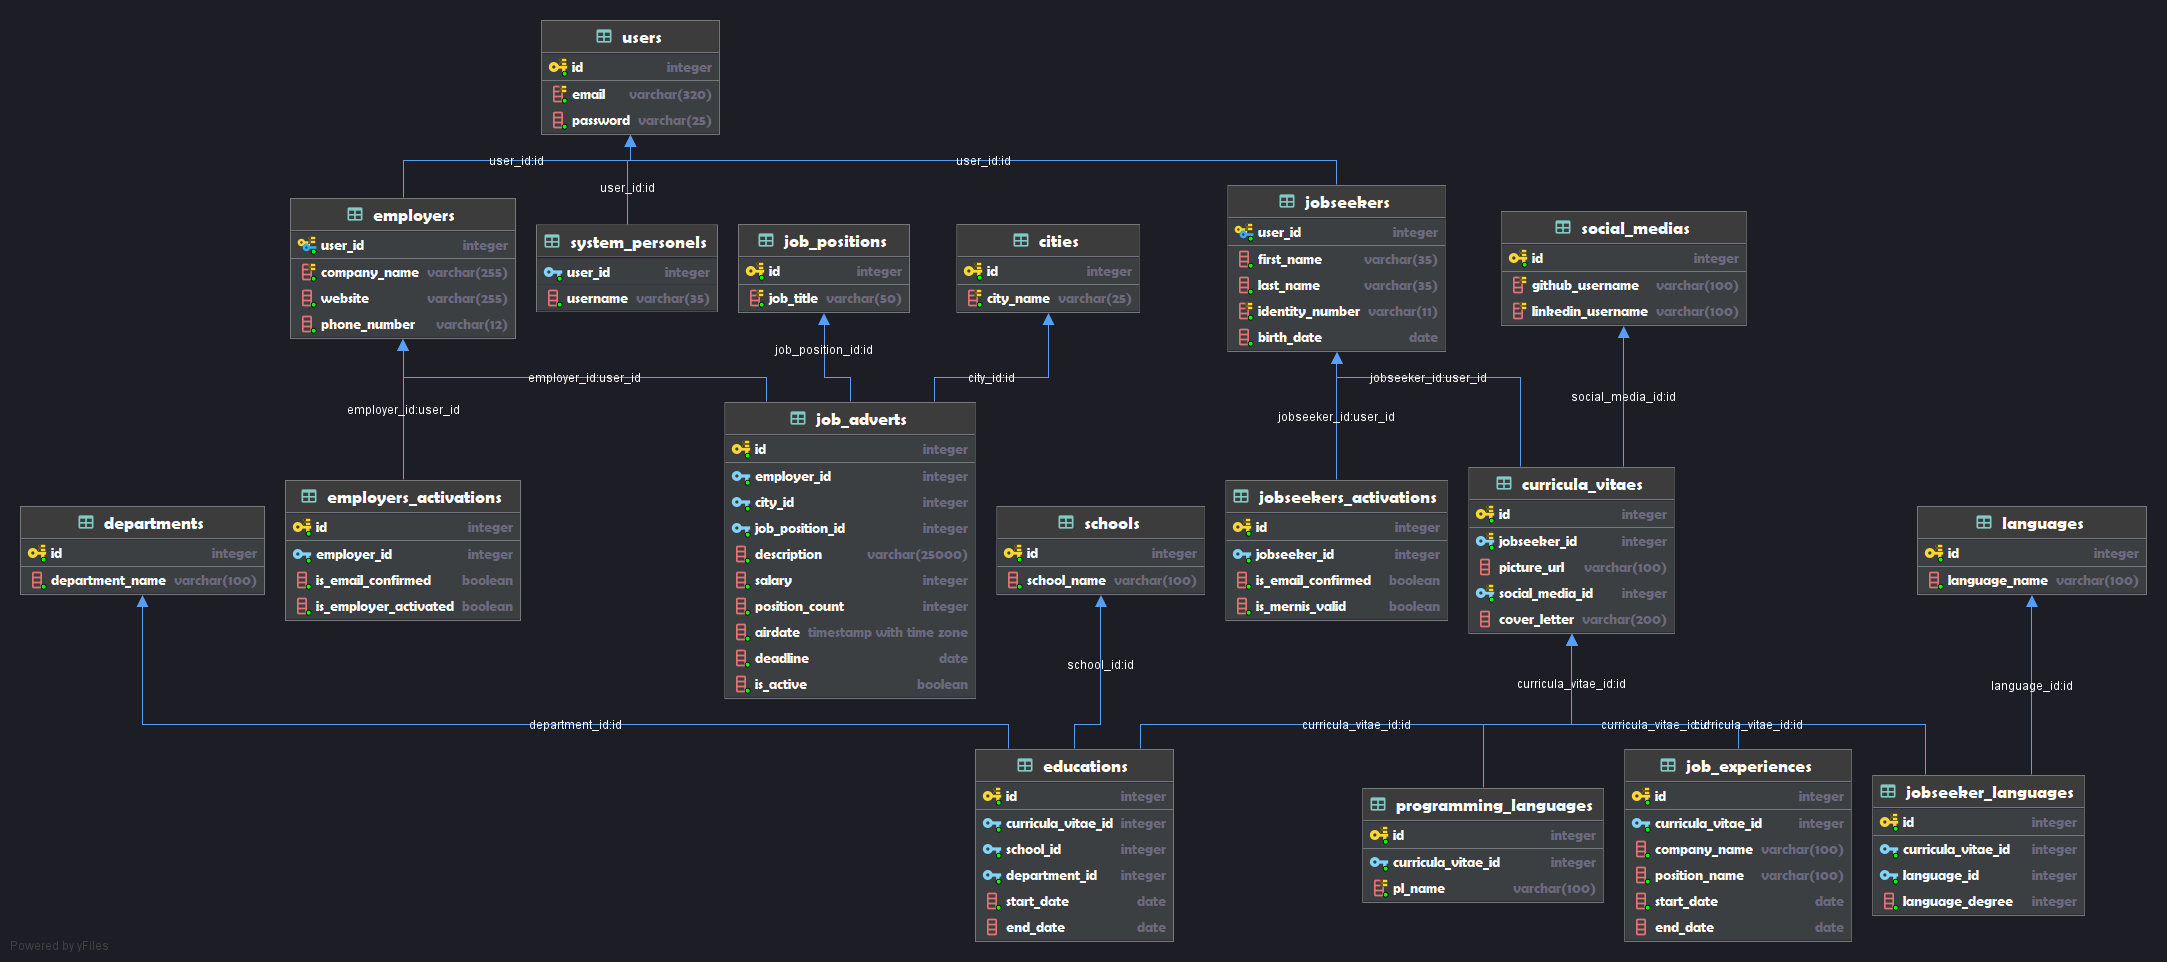
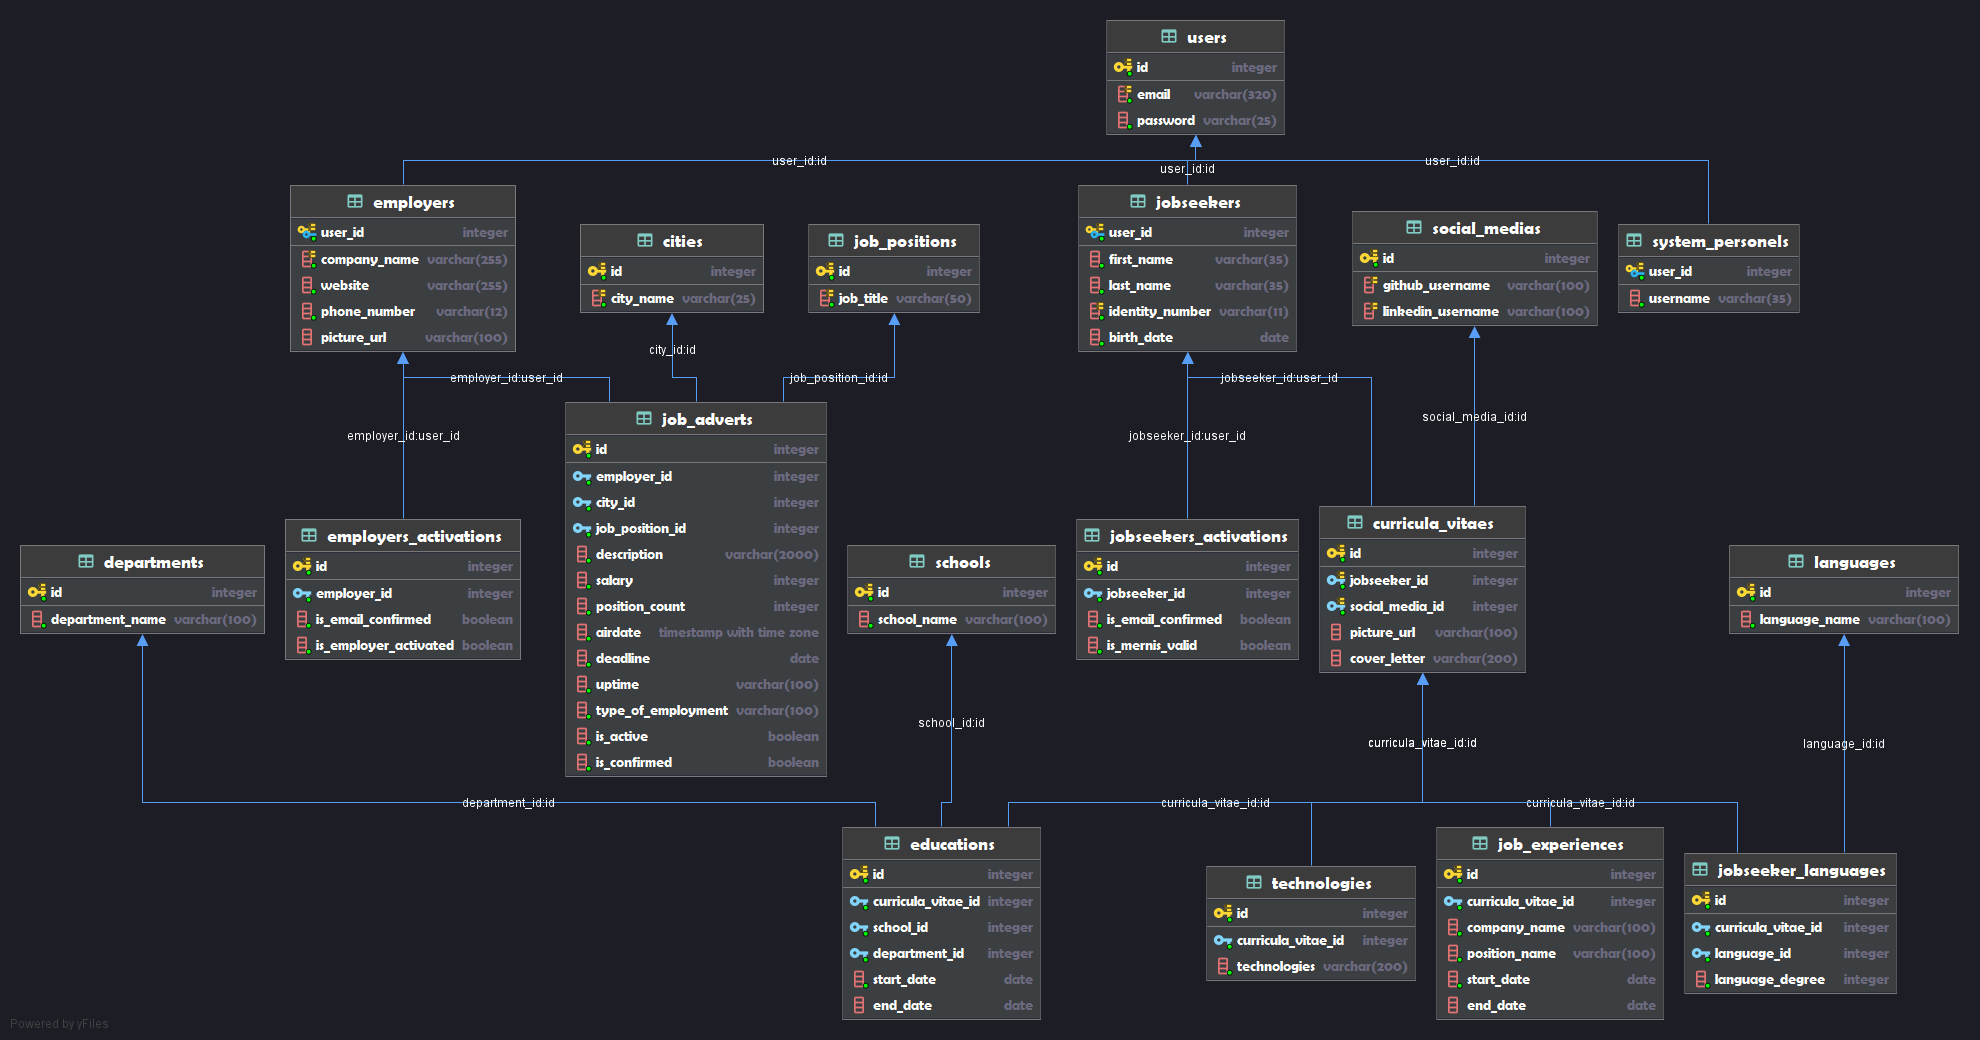
new requirments added for day 12!

diff --git a/hrms/src/main/java/torukobyte/hrms/business/concretes/JobAdvertManager.java b/hrms/src/main/java/torukobyte/hrms/business/concretes/JobAdvertManager.java
@@ -66,6 +66,20 @@ public class JobAdvertManager implements JobAdvertService {
     }
 
     @Override
+    public DataResult<List<JobAdvert>> getJobAdvertByIsActiveTrueAndIsConfirmedTrue() {
+        Sort sort = Sort.by(Sort.Direction.DESC, "airdate");
+        if (this.jobAdvertsDao.getJobAdvertByIsActiveTrueAndIsConfirmedTrue(sort).size() > 0) {
+            return new SuccessDataResult<>(
+                    this.jobAdvertsDao.getJobAdvertByIsActiveTrueAndIsConfirmedTrue(sort),
+                    "Success: Onaylı ve Aktif tüm iş ilanları yayınlanma tarihine göre listelendi!");
+
+        }
+        return new WarningDataResult<>(
+                this.jobAdvertsDao.getJobAdvertByIsActiveTrueAndIsConfirmedTrue(sort),
+                "Warning: Onaylı ve Aktif iş ilanı bulunamadı!");
+    }
+
+    @Override
     public DataResult<JobAdvert> getJobAdvertById(int jobAdvertId) {
         if (this.jobAdvertsDao.getJobAdvertById(jobAdvertId) == null) {
             return new WarningDataResult<>("Warning: Kayıtlı İş İlanı bulunamadı!");
@@ -77,9 +91,15 @@ public class JobAdvertManager implements JobAdvertService {
     }
 
     @Override
-    public Result deactiveJobAdvert(int jobAdvertId) {
-        this.jobAdvertsDao.deactiveJobAdvert(jobAdvertId);
-        return new SuccessResult("Success: İlan başarıyla inaktif edildi!");
+    public Result changeIsActive(boolean active, int jobAdvertId) {
+        this.jobAdvertsDao.changeIsActive(active, jobAdvertId);
+        return new SuccessResult("Success: İlan aktiflik durumu değiştirildi!");
+    }
+
+    @Override
+    public Result changeIsConfirmed(boolean confirm, int jobAdvertId) {
+        this.jobAdvertsDao.changeIsConfirmed(confirm, jobAdvertId);
+        return new SuccessResult("Success: İlan onay durumu değiştirildi!");
     }
 
     @Override

diff --git a/hrms/src/main/java/torukobyte/hrms/business/concretes/EmployerManager.java b/hrms/src/main/java/torukobyte/hrms/business/concretes/EmployerManager.java
@@ -2,21 +2,27 @@ package torukobyte.hrms.business.concretes;
 
 import org.springframework.beans.factory.annotation.Autowired;
 import org.springframework.stereotype.Service;
+import org.springframework.web.multipart.MultipartFile;
 import torukobyte.hrms.business.abstracts.EmployerService;
+import torukobyte.hrms.core.helpers.CloudinaryService;
 import torukobyte.hrms.core.utilities.EmailValidator;
 import torukobyte.hrms.core.utilities.results.*;
 import torukobyte.hrms.dataAccess.abstracts.EmployerDao;
 import torukobyte.hrms.entities.concretes.Employer;
 
+import java.io.IOException;
 import java.util.List;
 
 @Service
 public class EmployerManager implements EmployerService {
     private final EmployerDao employerDao;
 
+    private final CloudinaryService cloudinaryService;
+
     @Autowired
-    public EmployerManager(EmployerDao employerDao) {
+    public EmployerManager(EmployerDao employerDao, CloudinaryService cloudinaryService) {
         this.employerDao = employerDao;
+        this.cloudinaryService = cloudinaryService;
     }
 
     @Override
@@ -72,5 +78,17 @@ public class EmployerManager implements EmployerService {
                     this.employerDao.getEmployerById(employerId),
                     "Success: Şirket başarıyla listelendi!");
         }
+    }
+
+    @Override
+    public Result uploadPicture(int employerId, MultipartFile file) throws IOException {
+        var result = this.cloudinaryService.addPicture(file);
+        var url = result.getData().get("url");
+
+        Employer ref = this.employerDao.getOne(employerId);
+        ref.setPictureUrl(url.toString());
+        this.employerDao.save(ref);
+
+        return new SuccessResult("Success: Resim ekleme işlemi başarılı!");
     }
 }

diff --git a/hrms/src/main/java/torukobyte/hrms/api/controllers/SystemPersonelsController.java b/hrms/src/main/java/torukobyte/hrms/api/controllers/SystemPersonelsController.java
@@ -2,6 +2,7 @@ package torukobyte.hrms.api.controllers;
 
 import org.springframework.beans.factory.annotation.Autowired;
 import org.springframework.web.bind.annotation.*;
+import torukobyte.hrms.business.abstracts.JobAdvertService;
 import torukobyte.hrms.business.abstracts.SystemPersonelService;
 import torukobyte.hrms.core.utilities.results.DataResult;
 import torukobyte.hrms.core.utilities.results.Result;
@@ -16,9 +17,12 @@ public class SystemPersonelsController {
 
     private final SystemPersonelService systemPersonelService;
 
+    private final JobAdvertService jobAdvertService;
+
     @Autowired
-    public SystemPersonelsController(SystemPersonelService systemPersonelService) {
+    public SystemPersonelsController(SystemPersonelService systemPersonelService, JobAdvertService jobAdvertService) {
         this.systemPersonelService = systemPersonelService;
+        this.jobAdvertService = jobAdvertService;
     }
 
     @GetMapping("/getSystemPersonels")
@@ -39,6 +43,11 @@ public class SystemPersonelsController {
     @PostMapping("/addSystemPersonel")
     public Result addSystemPersonel(@RequestBody SystemPersonel systemPersonel) {
         return this.systemPersonelService.addSystemPersonel(systemPersonel);
+    }
+
+    @PostMapping("/changeIsConfirmed")
+    public Result changeIsConfirmed(@RequestParam boolean confirm, int jobAdvertId) {
+        return this.jobAdvertService.changeIsConfirmed(confirm, jobAdvertId);
     }
 
 

diff --git a/hrms/src/main/java/torukobyte/hrms/api/controllers/EmployerController.java b/hrms/src/main/java/torukobyte/hrms/api/controllers/EmployerController.java
@@ -2,12 +2,14 @@ package torukobyte.hrms.api.controllers;
 
 import org.springframework.beans.factory.annotation.Autowired;
 import org.springframework.web.bind.annotation.*;
+import org.springframework.web.multipart.MultipartFile;
 import torukobyte.hrms.business.abstracts.EmployerService;
 import torukobyte.hrms.business.abstracts.JobAdvertService;
 import torukobyte.hrms.core.utilities.results.DataResult;
 import torukobyte.hrms.core.utilities.results.Result;
 import torukobyte.hrms.entities.concretes.Employer;
 
+import java.io.IOException;
 import java.util.List;
 
 @RestController
@@ -45,8 +47,13 @@ public class EmployerController {
         return this.employerService.addEmployer(employer);
     }
 
-    @PostMapping("/updateIsActive")
-    public Result deactiveJobAdvert(@RequestParam("job_adverts_id") int jobAdvertId) {
-        return this.jobAdvertService.deactiveJobAdvert(jobAdvertId);
+    @PostMapping("/changeIsActive")
+    public Result changeIsActive(@RequestParam boolean active, int jobAdvertId) {
+        return this.jobAdvertService.changeIsActive(active, jobAdvertId);
+    }
+
+    @PostMapping("/addPicture")
+    public Result addPicture(int employerId, MultipartFile file) throws IOException {
+        return this.employerService.uploadPicture(employerId, file);
     }
 }

diff --git a/hrms/src/main/java/torukobyte/hrms/entities/concretes/JobAdvert.java b/hrms/src/main/java/torukobyte/hrms/entities/concretes/JobAdvert.java
@@ -47,10 +47,23 @@ public class JobAdvert {
     //düzenlenebilir gibi görünsede auto değer atıyor.
     private LocalDateTime airdate = LocalDateTime.now();
 
+    @Column(name = "uptime")
+    @NotNull
+    private String upTime;
+
+    @Column(name = "type_of_employment")
+    @NotNull
+    private String typeOfEmployment;
+
     @Column(name = "is_active")
     @NotNull
-    @JsonProperty(access = JsonProperty.Access.WRITE_ONLY)
+//    @JsonProperty(access = JsonProperty.Access.WRITE_ONLY)
     private boolean isActive = true;
+
+    @Column(name = "is_confirmed")
+    @NotNull
+//    @JsonProperty(access = JsonProperty.Access.WRITE_ONLY)
+    private boolean isConfirmed = false;
 
     @ManyToOne()
     @JoinColumn(name = "employer_id")

diff --git a/hrms/src/main/java/torukobyte/hrms/dataAccess/abstracts/JobAdvertDao.java b/hrms/src/main/java/torukobyte/hrms/dataAccess/abstracts/JobAdvertDao.java
@@ -16,10 +16,17 @@ public interface JobAdvertDao extends JpaRepository<JobAdvert, Integer> {
 
     List<JobAdvert> findAllByIsActiveTrue(Sort sort);
 
+    List<JobAdvert> getJobAdvertByIsActiveTrueAndIsConfirmedTrue(Sort sort);
+
     @Transactional
     @Modifying
-    @Query("Update JobAdvert set isActive = false where id =:jobAdvertId")
-    void deactiveJobAdvert(int jobAdvertId);
+    @Query("Update JobAdvert set isActive =:active where id =:jobAdvertId")
+    void changeIsActive(boolean active, int jobAdvertId);
+
+    @Transactional
+    @Modifying
+    @Query("Update JobAdvert set isConfirmed =:confirm where id =:jobAdvertId")
+    void changeIsConfirmed(boolean confirm, int jobAdvertId);
 
     JobAdvert getJobAdvertById(int id);
 

diff --git a/hrms/src/main/java/torukobyte/hrms/business/abstracts/EmployerService.java b/hrms/src/main/java/torukobyte/hrms/business/abstracts/EmployerService.java
@@ -1,9 +1,11 @@
 package torukobyte.hrms.business.abstracts;
 
+import org.springframework.web.multipart.MultipartFile;
 import torukobyte.hrms.core.utilities.results.DataResult;
 import torukobyte.hrms.core.utilities.results.Result;
 import torukobyte.hrms.entities.concretes.Employer;
 
+import java.io.IOException;
 import java.util.List;
 
 public interface EmployerService {
@@ -14,4 +16,6 @@ public interface EmployerService {
     Result deleteEmployerById(int employerId);
 
     DataResult<Employer> getEmployerById(int employerId);
+
+    Result uploadPicture(int employerId, MultipartFile file) throws IOException;
 }

diff --git a/hrms/src/main/java/torukobyte/hrms/api/controllers/JobExperiencesController.java b/hrms/src/main/java/torukobyte/hrms/api/controllers/JobExperiencesController.java
@@ -21,9 +21,9 @@ public class JobExperiencesController {
         this.jobExperienceService = jobExperienceService;
     }
 
-    @GetMapping("/getSortedJobExperiences")
-    public DataResult<List<JobExperience>> getSortedJobExperiences(@RequestParam int cvId) {
-        return this.jobExperienceService.findAllSorted(cvId);
+    @GetMapping("/getJobExperienceByCvId")
+    public DataResult<List<JobExperience>> getJobExperienceByCvId(@RequestParam int cvId) {
+        return this.jobExperienceService.getJobExperienceByCvId(cvId);
     }
 
     @PostMapping("/addJobExperience")

diff --git a/hrms/src/main/java/torukobyte/hrms/api/controllers/JobAdvertsController.java b/hrms/src/main/java/torukobyte/hrms/api/controllers/JobAdvertsController.java
@@ -40,6 +40,11 @@ public class JobAdvertsController {
         return this.jobAdvertService.findAllByIsActiveTrue();
     }
 
+    @GetMapping("/getJobAdvertByIsActiveTrueAndIsConfirmedTrue")
+    public DataResult<List<JobAdvert>> getJobAdvertByIsActiveTrueAndIsConfirmedTrue() {
+        return this.jobAdvertService.getJobAdvertByIsActiveTrueAndIsConfirmedTrue();
+    }
+
     @GetMapping("/getJobAdvertById")
     public DataResult<JobAdvert> getJobAdvertById(int jobAdvertId) {
         return this.jobAdvertService.getJobAdvertById(jobAdvertId);

diff --git a/hrms/src/main/java/torukobyte/hrms/api/controllers/EducationsController.java b/hrms/src/main/java/torukobyte/hrms/api/controllers/EducationsController.java
@@ -25,9 +25,9 @@ public class EducationsController {
         return this.educationService.getAllEducations();
     }
 
-    @GetMapping("/getSortedEducations")
-    public DataResult<List<Education>> getSortedJobExperiences(@RequestParam int cvId) {
-        return this.educationService.findAllSorted(cvId);
+    @GetMapping("/getEducationsByCvId")
+    public DataResult<List<Education>> getEducationsByCvId(@RequestParam int cvId) {
+        return this.educationService.getEducationsByCvId(cvId);
     }
 
     @PostMapping("/addEducation")

diff --git a/hrms/src/main/java/torukobyte/hrms/business/concretes/JobExperienceManager.java b/hrms/src/main/java/torukobyte/hrms/business/concretes/JobExperienceManager.java
@@ -27,7 +27,7 @@ public class JobExperienceManager implements JobExperienceService {
     }
 
     @Override
-    public DataResult<List<JobExperience>> findAllSorted(int id) {
+    public DataResult<List<JobExperience>> getJobExperienceByCvId(int id) {
         Sort sort = Sort.by(Sort.Direction.DESC, "endDate");
         if (this.jobExperienceDao.getJobExperienceEndDateByCurriculaVitaeId(id, sort).isEmpty()) {
             return new WarningDataResult<>("Warning: Listelenecek iş tecrübesi bulunamadı!");

diff --git a/hrms/src/main/java/torukobyte/hrms/business/abstracts/JobAdvertService.java b/hrms/src/main/java/torukobyte/hrms/business/abstracts/JobAdvertService.java
@@ -15,9 +15,13 @@ public interface JobAdvertService {
 
     DataResult<List<JobAdvert>> findAllByIsActiveTrue();
 
+    DataResult<List<JobAdvert>> getJobAdvertByIsActiveTrueAndIsConfirmedTrue();
+
     DataResult<JobAdvert> getJobAdvertById(int jobAdvertId);
 
-    Result deactiveJobAdvert(int jobAdvertId);
+    Result changeIsActive(boolean active, int jobAdvertId);
+
+    Result changeIsConfirmed(boolean confirm, int jobAdvertId);
 
     Result addJobAdvert(JobAdvert jobAdvert);
 
